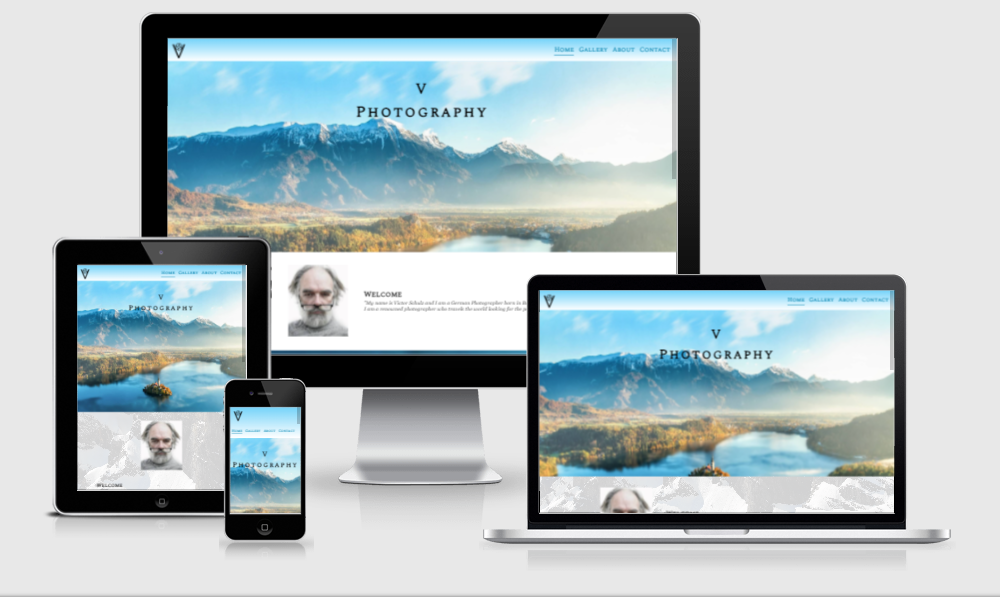
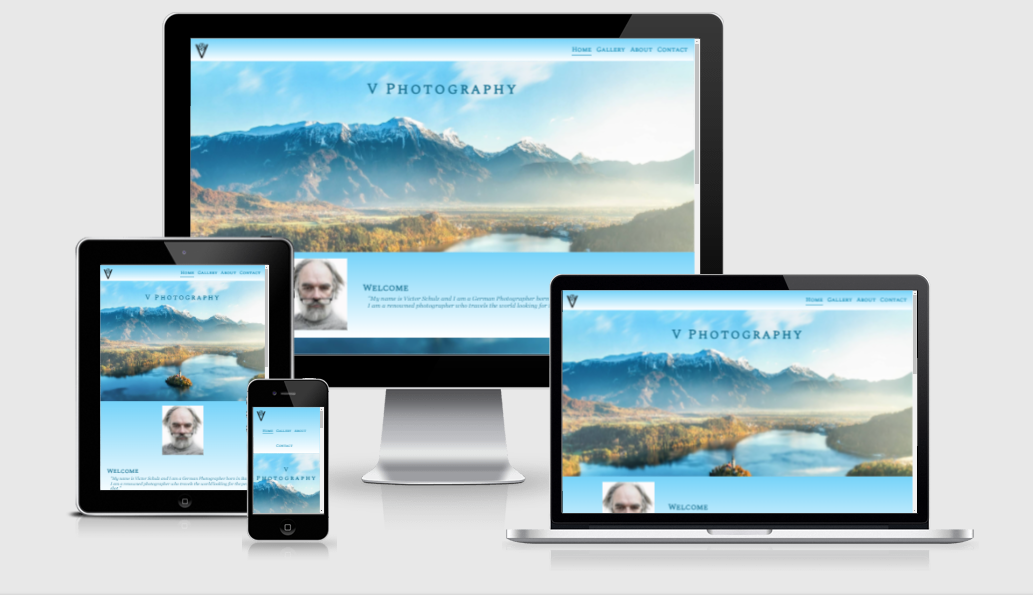
Replace README images to match font color update

diff --git a/404.html b/404.html
@@ -36,7 +36,7 @@
     <section>
         <div class="hero-image">
             <div class="hero-text">
-                <h1>V<br>Photography</h1>
+                <h1>V Photography</h1>
             </div>
         </div>
     </section>
